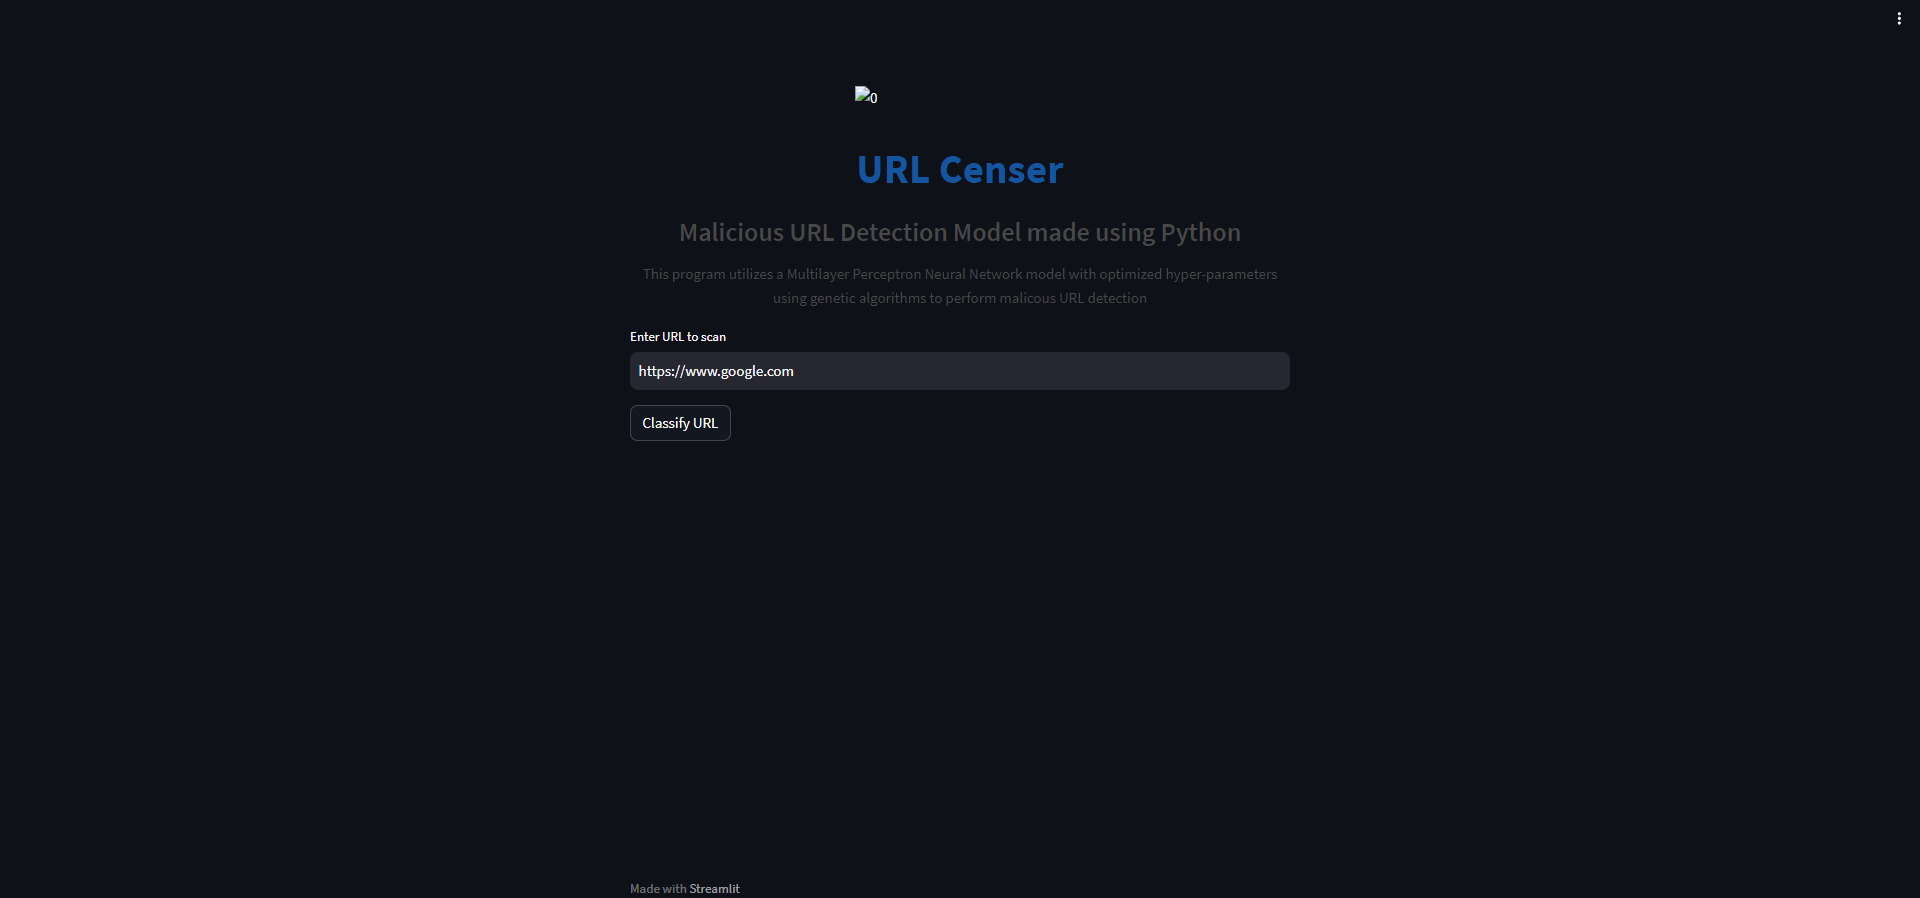
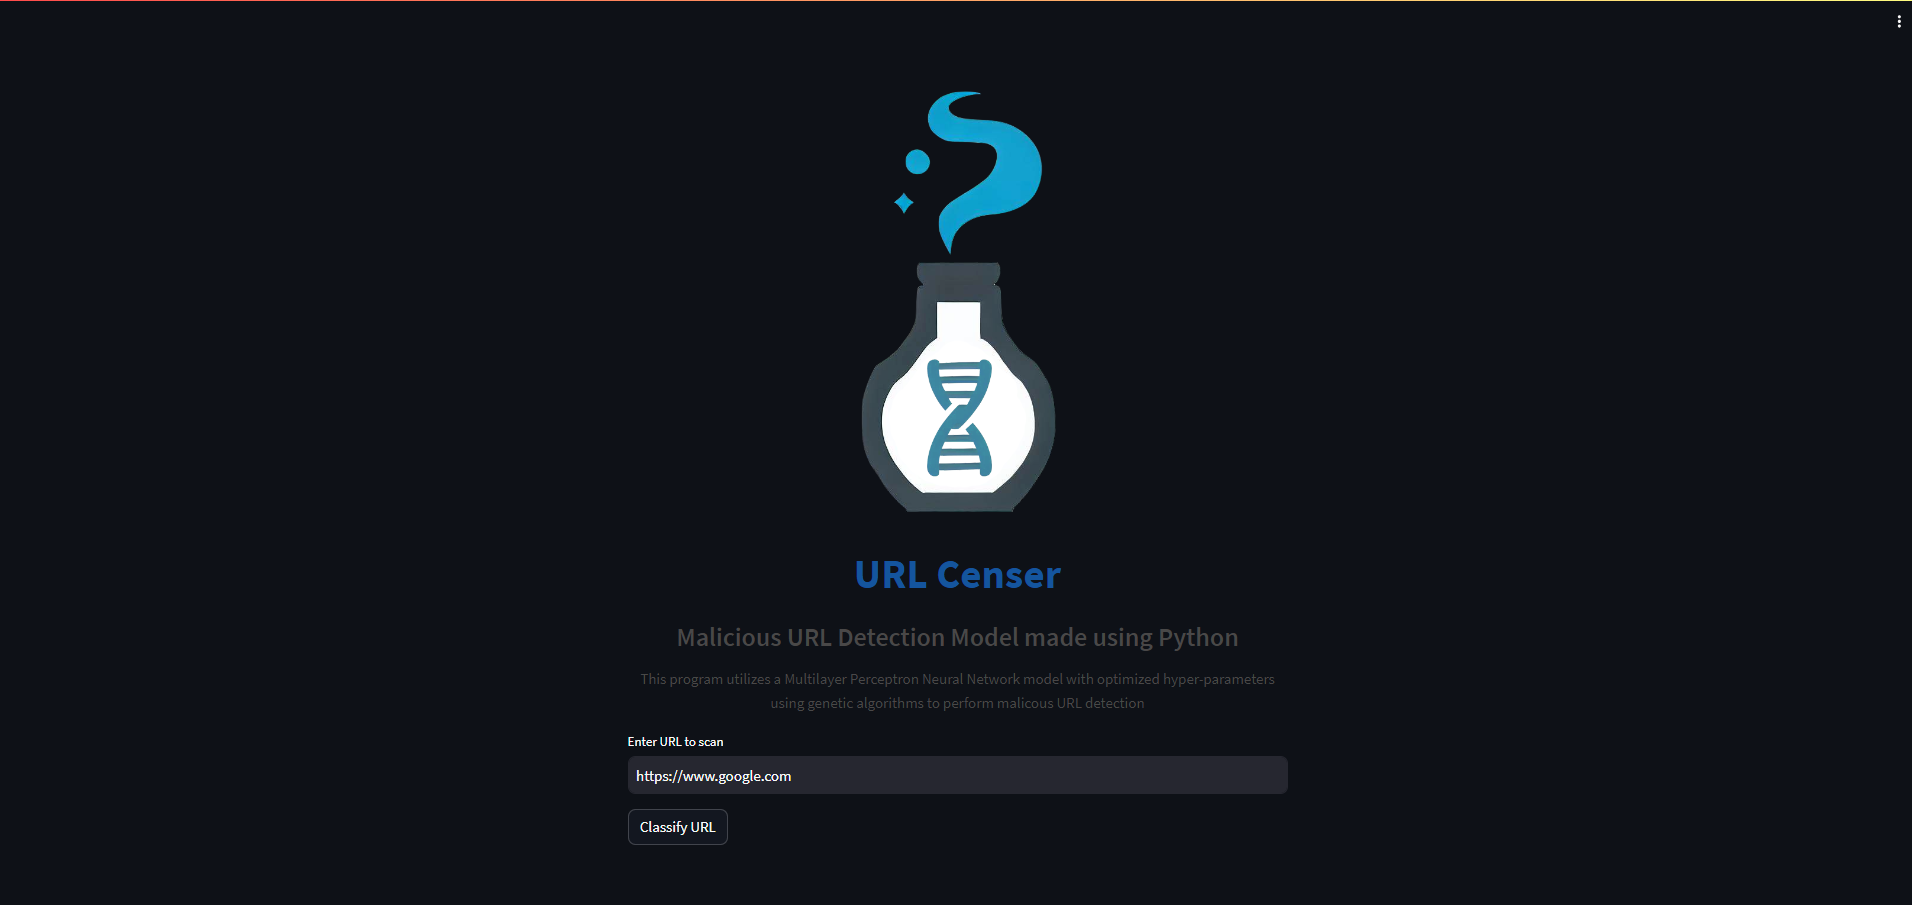
preview update

diff --git a/webapp/app.py b/webapp/app.py
@@ -16,7 +16,7 @@ with col1:
     st.write(' ')
 
 with col2:
-    st.image("https://github.com/https://github.com/theRawrrr/Url_Censer/blob/main/webapp/assets/url_censer_logo.png?raw=true")
+    st.image("https://github.com/theRawrrr/Url_Censer/blob/main/webapp/assets/url_censer_logo.png?raw=true")
 
 with col3:
     st.write(' ')
